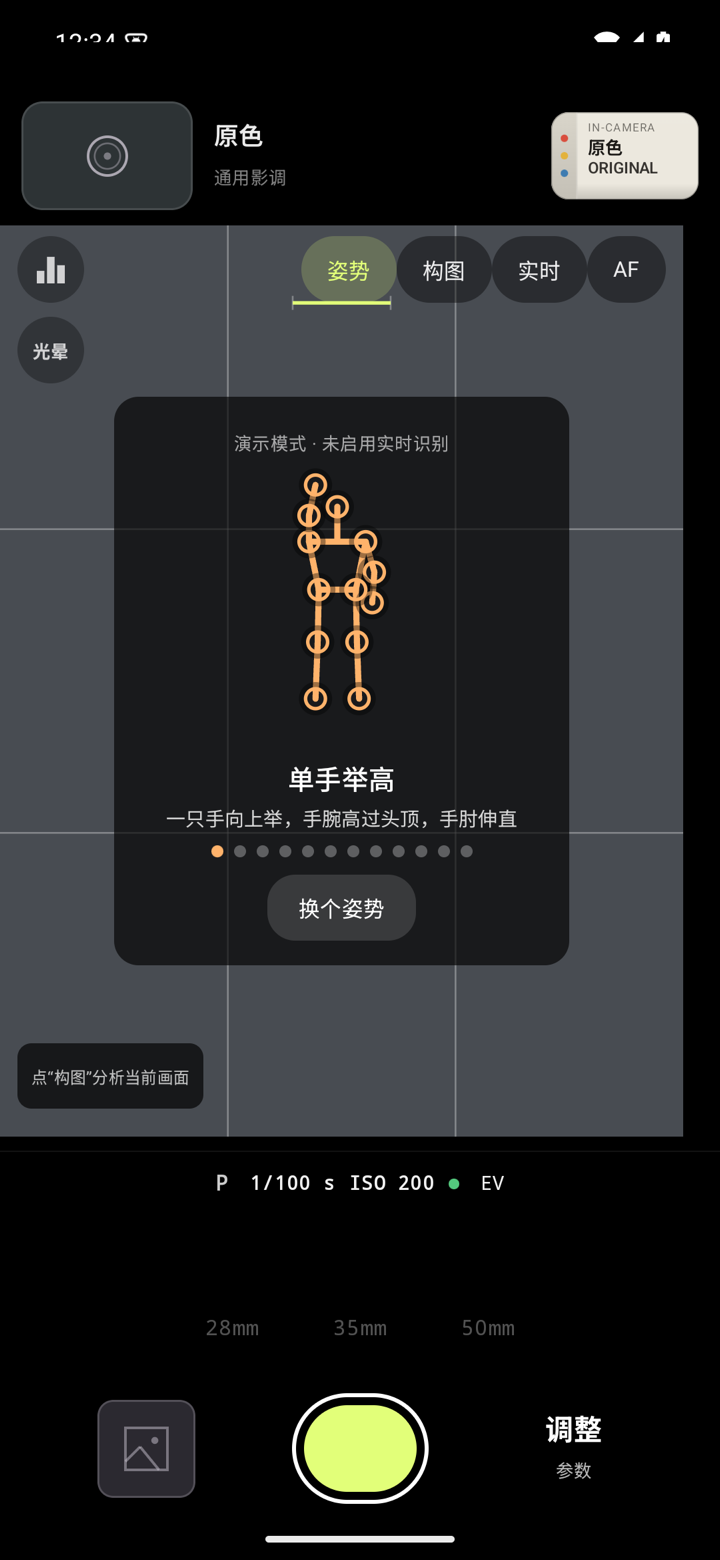
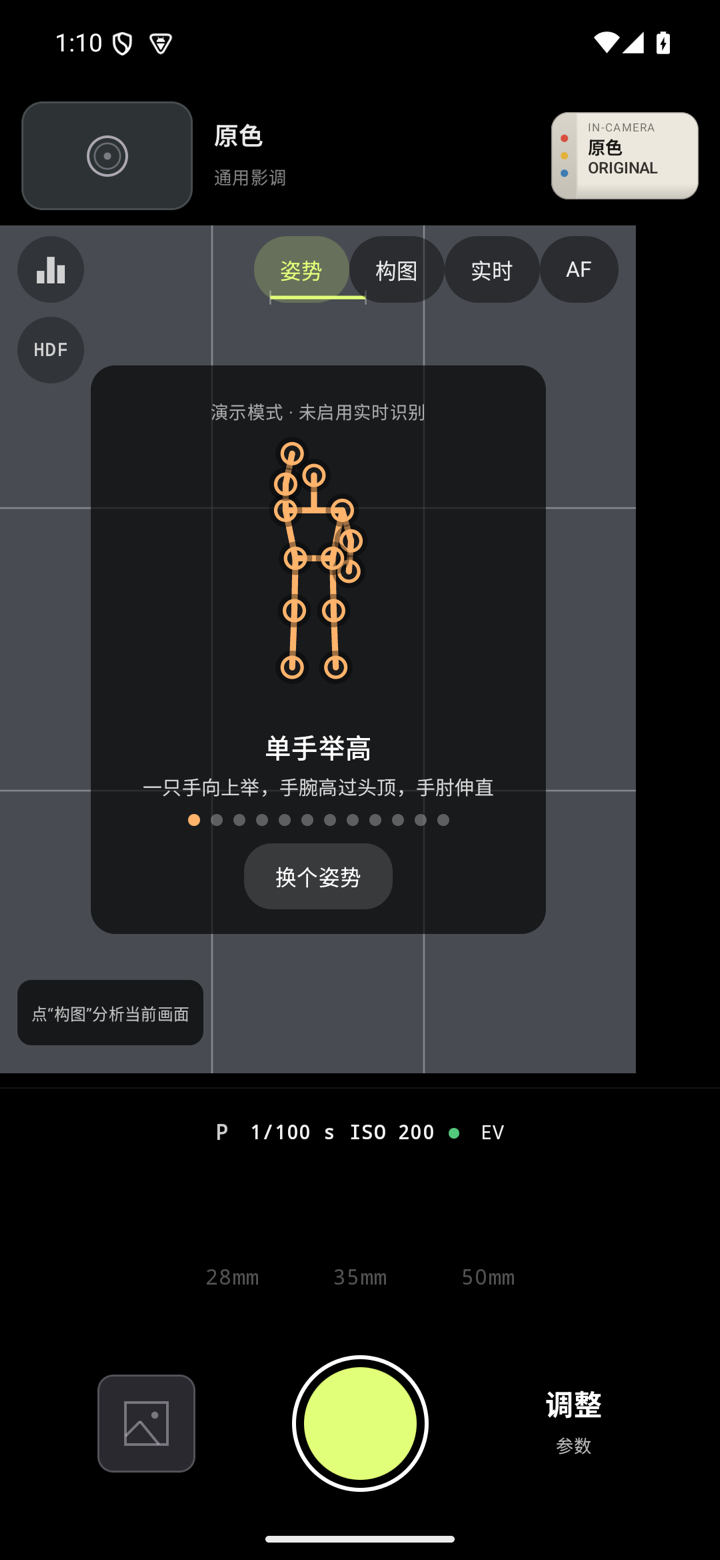
修复 T116 取景页回归：HDF 命名回正、肩屏与建议卡重叠、单次构图建议自消失
- HDF：T116 误把理光 HDF 高光扩散层改名为「光晕」，全链路改回 HDF
  （角钮、覆盖药丸、控制侧栏、扩散专区、曝光与测光文案、README）；
  代码标识符 hdrEnabled/hdrStrength 保留旧名以兼容老设置档
- 布局：clusterMinHeight 218→254dp，计入 T116 新增的固定 36dp 覆盖药丸
  槽；控制簇 Column fillMaxHeight，修掉 weight spacer 量到 0 导致簇顶对齐
  divider、测光肩屏贴上取景器下沿；曝光建议卡改为所有布局都在 3:4 框内
  HDF 角钮下方渲染，不再与肩屏挤同一黑带
- 构图保活：onSceneChanged 增加 hard 语义，相机重绑/后台暂停/旋转变焦失效
  为 hard 必清；普通内容观察为 soft，单次请求的建议不再因手持微动、AE 波动
  或画面动体在几秒后被清掉（30s TTL 正常过期），实时模式行为不变
- 新增 CompositionFrameSource 硬失效生命周期单测
- 重拍四张 README 产品图：HDF 角钮、修复后三卡分离布局、真实达标/引导/
  演示三态，截图说明同步更新

diff --git a/app/src/main/java/dev/streetsnap/app/CameraScreen.kt b/app/src/main/java/dev/streetsnap/app/CameraScreen.kt
@@ -286,13 +286,16 @@ fun CameraScreen(activity: MainActivity, model: CameraViewModel = viewModel()) {
                         // Tall enough for the body card to read as a camera plate rather than
                         // a flattened strip (T22: 48dp crowded the 74x40 artwork).
                         val nameplateHeight = if (hideNameplate) 0.dp else 80.dp
-                        // Worst case the cluster can show: divider + paddings + one override
-                        // chip row + focal row + fixed focal/shutter gap + 92dp shutter row.
-                        // Reserve it up front; on short screens the 3:4 picture shrinks a
-                        // touch instead of clipping.
+                        // Fixed content the cluster can show: divider + paddings + the
+                        // constant 36dp override-chip slot + shoulder strip + focal row +
+                        // fixed focal/shutter gap + 92dp shutter row = 254dp. The chip slot
+                        // is always reserved (T116) so it must be counted here; when the
+                        // reservation was still 218dp the weighted slack spacer measured
+                        // zero and the whole cluster top-aligned (T118). On short screens
+                        // the 3:4 picture shrinks a touch instead of clipping.
                         // The bottom band owns the navigation-bar inset; reserve it here so
                         // the 3:4 picture sizing matches the old safe-area layout.
-                        val clusterMinHeight = 218.dp + navigationBarBottom
+                        val clusterMinHeight = 254.dp + navigationBarBottom
                         val framedWidth = minOf(maxWidth,
                             (maxHeight - statusBarTop - nameplateHeight - clusterMinHeight) * 3f / 4f)
                         Column(Modifier.fillMaxSize().background(Color.Black)) {
@@ -797,10 +800,11 @@ private fun Viewfinder(
             // column hosts only the optional small histogram window.
             HdrToggleButton(settings.hdrEnabled, model::toggleHdr,
                 Modifier.align(Alignment.TopStart).padding(start = 10.dp, top = systemBarTop + 52.dp))
-            // Clipped-highlight/shadow hint. In framed portrait it lives in the black control
-            // band just above the shoulder strip (see ViewfinderOverlayBar) so it never covers
-            // the viewfinder; only the floating landscape path keeps the in-frame anchor.
-            if (!framed) exposureAdviceCard?.let { card ->
+            // Clipped-highlight/shadow hint, in-frame under the HDF corner button on every
+            // layout. It used to share the black control band with the shoulder strip in
+            // framed mode, but the band has no slack once the fixed override-chip slot is
+            // reserved, so the card collided with the meter readout (T118).
+            exposureAdviceCard?.let { card ->
                 ExposureAdviceCardView(card, model::dismissExposureAdvice,
                     Modifier.align(Alignment.TopStart).padding(start = 10.dp, top = systemBarTop + 100.dp))
             }
@@ -1177,7 +1181,7 @@ private fun LookAdviceAction(
 }
 
 /**
- * Exposure hint card under the 光晕 button. Suggest-only: no button changes exposure,
+ * Exposure hint card under the HDF button. Suggest-only: no button changes exposure,
  * the × dismisses for the rest of the session (T31).
  */
 @Composable
@@ -1195,7 +1199,7 @@ private fun ExposureAdviceCardView(card: ExposureAdviceCard, onDismiss: () -> Un
     }
 }
 
-/** Always-on 光晕 (bloom / Ricoh-style highlight diffusion) toggle under the OSD corner button; quiet when off, primary-tinted while on. */
+/** Always-on HDF toggle (Ricoh-style highlight diffusion) under the OSD corner button; quiet when off, primary-tinted while on. */
 @Composable
 private fun HdrToggleButton(on: Boolean, onToggle: () -> Unit, modifier: Modifier = Modifier) {
     val tint = if (on) MaterialTheme.colorScheme.primary else Color.White.copy(alpha = .78f)
@@ -1203,12 +1207,12 @@ private fun HdrToggleButton(on: Boolean, onToggle: () -> Unit, modifier: Modifie
         .background(if (on) MaterialTheme.colorScheme.primary.copy(alpha = .20f) else Color.Black.copy(alpha = .32f))
         .clickable(role = Role.Button, onClick = onToggle)
         .semantics {
-            contentDescription = "光晕开关（高光柔化与外圈辉光）"
+            contentDescription = "HDF 高光扩散开关（理光风格高光柔化与光晕）"
             stateDescription = if (on) "已开启" else "已关闭"
             this.selected = on
         },
         contentAlignment = Alignment.Center) {
-        Text("光晕", color = tint, fontSize = 10.sp, fontFamily = FontFamily.Monospace,
+        Text("HDF", color = tint, fontSize = 10.sp, fontFamily = FontFamily.Monospace,
             fontWeight = FontWeight.Bold, maxLines = 1)
     }
 }
@@ -1347,10 +1351,6 @@ private fun ViewfinderOverlayBar(
     val exposureMode = state.settings.exposureMode
     val ev = state.settings.exposureCompensationIndex * (state.capabilities?.exposureCompensationStepEv ?: 0.0)
     val wbName = state.settings.whiteBalance.takeIf { it != WhiteBalanceMode.AUTO }?.displayName
-    // T74: in framed portrait the exposure hint shares the black band with the shoulder strip
-    // (second collector of the same StateFlow); the landscape floating path renders it in-frame.
-    val exposureCard by model.exposureAdviceCard.collectAsStateWithLifecycle()
-
     // Only *manual overrides that can ruin a shot* get a persistent chip (Halide Mark III
     // pattern): non-auto WB, diffusion, MF, S/M exposure, EV. Tap jumps to the section,
     // long-press resets just that override. The creative look/film choice is WYSIWYG, so
@@ -1363,7 +1363,7 @@ private fun ViewfinderOverlayBar(
             })
         }
         if (settings.hdfEnabled) add(ActiveOverride("柔光", AdjustmentTab.LOOK, "关闭柔光") { model.toggleHdf() })
-        if (settings.hdrEnabled) add(ActiveOverride("光晕", AdjustmentTab.LOOK, "关闭光晕") { model.toggleHdr() })
+        if (settings.hdrEnabled) add(ActiveOverride("HDF", AdjustmentTab.LOOK, "关闭 HDF") { model.toggleHdr() })
         if (state.settings.focusDistanceDiopters != null)
             add(ActiveOverride("MF", AdjustmentTab.SHOOTING, "恢复自动对焦") { model.autoFocus() })
         if (exposureMode != ExposureMode.PROGRAM) add(ActiveOverride(
@@ -1377,17 +1377,17 @@ private fun ViewfinderOverlayBar(
         else Modifier.background(Brush.verticalGradient(listOf(Color.Transparent, Color.Black.copy(alpha = .58f))))
     // T116: the focal row and shutter are anchored to the bottom of the band. The cluster
     // used to vertically centre its whole content between two weighted spacers, so the
-    // moment an override chip appeared (柔光/光晕/non-auto WB/MF/S/M/EV) the shutter jumped
-    // down ~22dp — the reported "whole screen shifts down". Override chips and the
-    // transient exposure card now float over the black band instead of taking part in the
-    // Column, so nothing under the user's thumb ever reflows.
+    // moment an override chip appeared (柔光/HDF/non-auto WB/MF/S/M/EV) the shutter jumped
+    // down ~22dp — the reported "whole screen shifts down". Override chips keep a
+    // constant-height slot (its height is reserved in clusterMinHeight) and the transient
+    // exposure card floats inside the 3:4 viewfinder, so nothing under the user's thumb
+    // ever reflows. The inner Column MUST fill the band: without that the weighted spacer
+    // measures zero and the whole cluster top-aligns against the divider (T118 regression:
+    // shoulder strip touched the frame edge and crowded the cards).
     Box(modifier.then(chrome)
         .padding(top = if (framed) 8.dp else 46.dp, bottom = if (framed) 8.dp else 10.dp)) {
-        if (framed) exposureCard?.let { card ->
-            ExposureAdviceCardView(card, model::dismissExposureAdvice,
-                Modifier.align(Alignment.TopCenter).padding(horizontal = 12.dp))
-        }
-        Column(Modifier.fillMaxWidth(), horizontalAlignment = Alignment.CenterHorizontally) {
+        Column(Modifier.fillMaxWidth().then(if (framed) Modifier.fillMaxHeight() else Modifier),
+            horizontalAlignment = Alignment.CenterHorizontally) {
             // Hairline that separates the 3:4 screen from the camera-back control cluster.
             if (framed) HorizontalDivider(thickness = .8.dp, color = Color.White.copy(alpha = .07f))
             // All slack collects above the controls; the shutter group is bottom-anchored.
@@ -1737,9 +1737,9 @@ private fun ShootingControls(
                     color = if (adjustmentTab == AdjustmentTab.WHITE_BALANCE) MaterialTheme.colorScheme.primary
                     else MaterialTheme.colorScheme.onSurfaceVariant)
             }
-            // 柔光 = global soft diffusion (Black Pro-Mist style); 光晕 = highlight bloom.
-            // The two optical layers used to share one "HDF" label despite driving
-            // different settings — they now read as distinct, deliberately ordered switches.
+            // Two independent optical diffusion layers with deliberately distinct names:
+            // 柔光 = global soft diffusion (Black Pro-Mist style, hdfEnabled);
+            // HDF = Ricoh-style highlight diffusion with outer halo (hdrEnabled).
             Box(Modifier.width(56.dp).height(48.dp).clip(RoundedCornerShape(10.dp))
                 .background(if (settings.hdfEnabled) MaterialTheme.colorScheme.primary.copy(alpha = .12f) else Color.Transparent)
                 .toggleable(value = settings.hdfEnabled, enabled = loaded, role = Role.Switch) { model.toggleHdf() }
@@ -1754,10 +1754,10 @@ private fun ShootingControls(
                 .background(if (settings.hdrEnabled) MaterialTheme.colorScheme.primary.copy(alpha = .12f) else Color.Transparent)
                 .toggleable(value = settings.hdrEnabled, enabled = loaded, role = Role.Switch) { model.toggleHdr() }
                 .semantics {
-                    contentDescription = "光晕开关（高光柔化与外圈辉光）"
+                    contentDescription = "HDF 高光扩散开关（理光风格高光柔化与光晕）"
                     stateDescription = if (settings.hdrEnabled) "开启" else "关闭"
                 }, contentAlignment = Alignment.Center) {
-                Text("光晕", fontWeight = FontWeight.Bold, fontSize = 12.sp,
+                Text("HDF", fontWeight = FontWeight.Bold, fontSize = 12.sp,
                     color = if (settings.hdrEnabled) MaterialTheme.colorScheme.primary else MaterialTheme.colorScheme.onSurfaceVariant)
             }
         }
@@ -1990,9 +1990,11 @@ private fun LookAdjustments(settings: AppSettings, importing: Boolean, model: Ca
 
 /**
  * The two software-simulated optical diffusion layers, both global across looks/films:
- * 柔光 (hdf) softens the whole frame like a Black Pro-Mist; 光晕 (hdr) blooms only the
- * near-clipping highlights with an outer halo. They used to share the "HDF" label in
- * four scattered places and the halo strength had no control at all (T116).
+ * Two independent software-simulated optical diffusion layers, both global across
+ * looks/films: 柔光 (hdfEnabled) softens the whole frame like a Black Pro-Mist; HDF
+ * (hdrEnabled, Ricoh Highlight Diffusion Filter style) blooms only the near-clipping
+ * highlights with an outer halo. Both carry strength sliders (T116); the halo layer keeps
+ * its original HDF name — the T116 rename to 光晕 was reverted in T118.
  */
 @Composable
 private fun DiffusionAdjustments(settings: AppSettings, model: CameraViewModel) {
@@ -2003,12 +2005,12 @@ private fun DiffusionAdjustments(settings: AppSettings, model: CameraViewModel) 
         sliderDescription = "柔光强度",
         onToggle = model::toggleHdf, onStrength = model::setHdfStrength)
     DiffusionStrengthRow(
-        title = "光晕", hint = "高光柔化 · 只在接近过曝的高光上扩散并形成外圈辉光",
+        title = "HDF", hint = "理光高光扩散 · 只在接近过曝的高光上柔化并形成外圈辉光",
         enabled = settings.hdrEnabled, strength = settings.hdrStrength,
-        toggleDescription = "光晕开关（高光柔化与外圈辉光）",
-        sliderDescription = "光晕强度",
+        toggleDescription = "HDF 高光扩散开关（理光风格高光柔化与光晕）",
+        sliderDescription = "HDF 强度",
         onToggle = model::toggleHdr, onStrength = model::setHdrStrength)
-    Text("柔光与光晕对所有影调 / 胶片生效，强度各自独立记忆；拖动强度会自动开启。",
+    Text("柔光与 HDF 对所有影调 / 胶片生效，强度各自独立记忆；拖动强度会自动开启。",
         Modifier.padding(top = 2.dp, bottom = 10.dp), style = MaterialTheme.typography.labelSmall,
         color = MaterialTheme.colorScheme.onSurfaceVariant)
 }
@@ -2281,7 +2283,7 @@ private fun ShootingAdjustments(state: CameraState, settings: AppSettings, model
     Text("根据取景画面的光线与色彩，偶尔推荐合适的胶片或影调；只建议，不会自动更改。点取景器卡片可试用，也能一键还原。",
         style = MaterialTheme.typography.labelSmall, color = MaterialTheme.colorScheme.onSurfaceVariant)
     ToggleRow("曝光提示", settings.exposureAdviceEnabled) { model.setExposureAdviceEnabled(it) }
-    Text("高光大面积过亮或暗部太黑时给出 EV 调整方向，明暗反差都大时提示开启光晕；只建议，不会自动改曝光。",
+    Text("高光大面积过亮或暗部太黑时给出 EV 调整方向，明暗反差都大时提示开启 HDF；只建议，不会自动改曝光。",
         style = MaterialTheme.typography.labelSmall, color = MaterialTheme.colorScheme.onSurfaceVariant)
     TextButton(onClick = openMascotPicker, modifier = Modifier.fillMaxWidth().heightIn(min = 48.dp)) {
         Text("相机设置", fontSize = 12.sp)

diff --git a/app/src/main/java/dev/streetsnap/app/CompositionAssistant.kt b/app/src/main/java/dev/streetsnap/app/CompositionAssistant.kt
@@ -691,14 +691,19 @@ internal class CompositionAssistant(context: Context, private val scope: Corouti
                             shouldCaptureFrame = {
                                 isCurrentSession() && (manualRequestPending || config.realtime || config.lookAdvice)
                             },
-                            onSceneChanged = {
+                            onSceneChanged = { hard ->
                                 scope.launch(Dispatchers.Main.immediate) {
                                     // T76: the AF/AE hunt right after a focus tap is not a real
                                     // scene change — keep the rectangle, arrow and look card.
-                                    if (isCurrentSession() && !focusGate.isDisturbing()) {
-                                        requestGracefulClear()
-                                        sceneChangeListener?.invoke()
-                                    }
+                                    if (!isCurrentSession() || focusGate.isDisturbing()) return@launch
+                                    // Hard invalidation (camera rebind/rotation/model switch) always
+                                    // invalidates shown advice. A mere content change only clears a
+                                    // LIVE guide: realtime repaints on the next frame within the grace
+                                    // window, while a one-shot request must survive ordinary motion
+                                    // (handheld shake, AE, a moving subject) — otherwise the requested
+                                    // rectangle vanished a few seconds after tapping 构图 (T118).
+                                    if (hard || config.realtime) requestGracefulClear()
+                                    sceneChangeListener?.invoke()
                                 }
                             }, onError = { error ->
                                 scope.launch(Dispatchers.Main.immediate) {
@@ -715,7 +720,11 @@ internal class CompositionAssistant(context: Context, private val scope: Corouti
                                 val frameMode = withContext(Dispatchers.Main.immediate) {
                                     if (!isCurrentSession() || !frame.isCurrent ||
                                         !resultGate.isFreshForInference(ticket, SystemClock.elapsedRealtime())) return@withContext null
-                                    if (visibleScene?.invoke() == false && !focusGate.isDisturbing())
+                                    // Age-out applies to the live guide only: a realtime stream
+                                    // repaints within the grace window, whereas a one-shot request
+                                    // must outlast look-only frames arriving after it (T118).
+                                    if (config.realtime && visibleScene?.invoke() == false &&
+                                        !focusGate.isDisturbing())
                                         requestGracefulClear()
                                     val requested = manualRequestPending
                                     if (!requested && !config.realtime && !config.lookAdvice) return@withContext null

diff --git a/camera/src/main/java/dev/streetsnap/camera/CompositionFrameSource.kt b/camera/src/main/java/dev/streetsnap/camera/CompositionFrameSource.kt
@@ -37,7 +37,13 @@ class CompositionFrameSource(
     private val maximumEdge: Int = 384,
     sceneIntervalMs: Long = 500L,
     onError: (Throwable) -> Unit = {},
-    private val onSceneChanged: () -> Unit = {},
+    /**
+     * Scene observations diverged, or the source was invalidated. [hard] distinguishes a
+     * rebind/rotation/invalidation (true: the old frame is dead, advice must not survive)
+     * from an ordinary content change observed by the scene watcher (false: the picture
+     * simply changed — a live guide clears and repaints, a one-shot request may persist).
+     */
+    private val onSceneChanged: (hard: Boolean) -> Unit = {},
     /** Read-only, thread-safe demand check on the camera executor, before copying a full RGB frame. */
     private val shouldCaptureFrame: () -> Boolean = { true },
     onFrame: suspend (CompositionFrame) -> Unit,
@@ -86,7 +92,7 @@ class CompositionFrameSource(
             active = false; generation++; frameEpoch++; sampling.reset(); sceneSampling.reset(); sceneTracker.reset()
         }
         gate.dropPending()
-        runCatching(onSceneChanged)
+        runCatching { onSceneChanged(true) }
     }
 
     /** Called after detachment. A live source can be rebound after a rotation or preview resize. */
@@ -112,7 +118,7 @@ class CompositionFrameSource(
             previous
         }
         gate.dropPending()
-        if (wasActive) runCatching(onSceneChanged)
+        if (wasActive) runCatching { onSceneChanged(true) }
     }
 
     internal fun resume() = synchronized(lock) {
@@ -137,7 +143,7 @@ class CompositionFrameSource(
         synchronized(lock) { frameEpoch++; sampling.reset(); sceneSampling.reset(); sceneTracker.reset() }
         gate.dropPending()
         // Rotation/zoom invalidates a displayed rectangle as well as in-flight work.
-        runCatching(onSceneChanged)
+        runCatching { onSceneChanged(true) }
     }
 
     internal fun analyze(image: ImageProxy, session: Long) {
@@ -160,7 +166,7 @@ class CompositionFrameSource(
                 val changed = sceneTracker.observe(signature, now)
                 changed to if (reserved) sceneTracker.capture() else null
             }
-            if (sceneChanged) runCatching(onSceneChanged)
+            if (sceneChanged) runCatching { onSceneChanged(false) }
             if (!reserved) return
             val frame = copyFrame(image, now / 1_000_000L,
                 current = {

diff --git a/camera/src/test/java/dev/streetsnap/camera/CompositionFrameSourceLifecycleTest.kt b/camera/src/test/java/dev/streetsnap/camera/CompositionFrameSourceLifecycleTest.kt
@@ -43,6 +43,26 @@ class CompositionFrameSourceLifecycleTest {
     }
 
     @Test
+    fun invalidationAndRebindReportHardSceneChanges() {
+        val hardFlags = mutableListOf<Boolean>()
+        val source = CompositionFrameSource(onSceneChanged = { hard -> hardFlags.add(hard) }, onFrame = {})
+        try {
+            source.activate()
+            source.invalidateFrames()
+            assertTrue(hardFlags.isNotEmpty())
+            assertTrue("frame invalidation is a hard change", hardFlags.all { it })
+
+            hardFlags.clear()
+            source.deactivate()
+            assertTrue(hardFlags.isNotEmpty())
+            assertTrue("camera rebind is a hard change", hardFlags.all { it })
+        } finally {
+            source.close()
+            source.shutdownExecutor()
+        }
+    }
+
+    @Test
     fun disposalKeepsTheExecutorAliveUntilCameraXDetachesItsAnalyzer() {
         val source = CompositionFrameSource(onFrame = {})
         try {

diff --git a/app/src/main/java/dev/streetsnap/app/CameraViewModel.kt b/app/src/main/java/dev/streetsnap/app/CameraViewModel.kt
@@ -114,7 +114,7 @@ class CameraViewModel(application: Application) : AndroidViewModel(application) 
         val nextEv = (capture.exposureCompensationIndex + advice.issue.evDirection) * step
         _exposureAdviceCard.value = ExposureAdviceCard(
             when (advice.issue) {
-                ExposureIssue.WIDE_DYNAMIC_RANGE -> "明暗光比大，可开「光晕」柔化高光或避开强光"
+                ExposureIssue.WIDE_DYNAMIC_RANGE -> "明暗光比大，可开「HDF」柔化高光或避开强光"
                 ExposureIssue.HIGHLIGHTS_CLIPPED -> "高光过亮，建议 EV %+.1f".format(nextEv)
                 ExposureIssue.SHADOWS_CLIPPED -> "暗部太黑，建议 EV %+.1f".format(nextEv)
             },

diff --git a/docs/images/README.md b/docs/images/README.md
@@ -1,6 +1,15 @@
 # 界面截图
 
-> **2026-10-26 更新（T116 批次）：** 配合取景页菜单梳理（「柔光 / 光晕」定名、扩散专区）与快门位移修复，五张主图全部重拍：`viewfinder.png`、`pose-live-guide.png`、`pose-ready.png`、`pose-demo.png`、`compose-panel.png`。本批次人物画面统一使用 COCO 183391（CC BY-SA 2.0）单一来源，演示模式图改用纯灰场景、不再注入任何照片。2026-10-25 批次的方法记录与署名保留在后文。
+> **2026-10-27 更新（T118 批次）：** 配合取景页回归修复（HDF 命名回正、测光肩屏与建议卡重叠、单次构图建议自消失），重拍四张主图：`viewfinder.png`、`pose-live-guide.png`、`pose-ready.png`、`pose-demo.png`。人物画面仍为 COCO 183391（CC BY-SA 2.0）单一来源、纯灰演示图不注入照片。T116 批次的 `compose-panel.png` 与方法记录保留在后文。
+>
+> **2026-10-26（T116 批次）：** 配合取景页菜单梳理（「柔光 / HDF」区分、扩散专区）与快门位移修复，五张主图全部重拍：`viewfinder.png`、`pose-live-guide.png`、`pose-ready.png`、`pose-demo.png`、`compose-panel.png`（前四者 T118 已再次重拍）。
+
+## 截图环境（2026-10-27，T118 批次）
+
+- JDK / Android SDK / AVD 同 T116（Temurin 17.0.21+9，JAVA_HOME 必须指到 bundle 内的 `Contents/Home`；emulator 无头 `-no-window -gpu host -grpc 8554`）。
+- **APK**：`./gradlew :app:assembleDebug` 本机构建安装，包名 `dev.streetsnap.app`，代码基线为分支 **`fix/t118-hdf-layout-regressions`**（HDF 命名回正 + 取景页布局与构图保活修复，随本 PR 提交）。
+- **场景切换改回冷启**：T116 记录的 gRPC 热切（`vsctl2.py`）在本机当前 emulator 版本上异常——返回约 6 KB 浮点数组样式二进制而非 `0801` protobuf 响应、场景不切换。本批一律改 `environment.ini` 后 `adb emu kill` 冷启（mesh3d↔imagefile 切换本就要求冷启）。
+- **定帧**：人物录屏 `rt118.mp4`（screenrecord 12 Mbps、45 s）按 0.2 s 抽帧 + 像素扫描定位绿窗（f0039–f0049），逐张目检定稿；演示图为 `screencap` 直截。
 
 ## 截图环境（2026-10-26，T116 批次）
 
@@ -14,7 +23,7 @@
 
 ## 出图方法
 
-- **虚拟场景 imagefile 模式**：AVD `environment.ini` 写 `version = 1` + `scene.mode = imagefile:<主机绝对路径>`。运行中经 gRPC 热切：服务 `android.emulation.control.incubating.VirtualSceneService/reloadEnvironment`（明文 gRPC，本机自写 HTTP/2 客户端 `/tmp/lwl-emulator-ctl/vsctl2.py`，不进仓），payload 为 protobuf 字符串帧（field 1 直接放 ini 文本，无空格），成功响应 `0801`；**同路径文件替换内容不生效，每次热切必须换新文件名**。
+- **虚拟场景 imagefile 模式**：AVD `environment.ini` 写 `version = 1` + `scene.mode = imagefile:<主机绝对路径>`。运行中经 gRPC 热切：服务 `android.emulation.control.incubating.VirtualSceneService/reloadEnvironment`（明文 gRPC，本机自写 HTTP/2 客户端 `/tmp/lwl-emulator-ctl/vsctl2.py`，不进仓），payload 为 protobuf 字符串帧（field 1 直接放 ini 文本，无空格），成功响应 `0801`；**同路径文件替换内容不生效，每次热切必须换新文件名**。（2026-10-27 T118 时该通道在本机当前 emulator 上失效，返回非 protobuf 二进制，已改回改 ini + 冷启。）
 - **冷启隐私指示器规避**：Android 15 相机会话建立后，systemui 的 `ScreenDecorOverlay` 会在右上角弹约 15 秒的绿色隐私胶囊（已用 `dumpsys window windows` 确认归属，非 App 控件），冷启即拍会截入画面。本批流程：先热切到纯灰 imagefile → 冷启 App（灰场无人，姿势永不达标、不轮换）→ 等 19 秒确认胶囊消失 → 再热切人物图。
 - **姿势索引与绿帧**：冷启重置为第 1 个姿势「单手举高」；该测试照在热切后约 1.3–2.6 秒真实达标（PoseCoach：`SCORE_READY=0.75`、连续 4 帧确认），ready 绿窗约 2.1 秒，2200ms 后自动轮换到「双手举起」。用 `screenrecord --time-limit` 录屏后 AVFoundation 按 0.05 秒抽帧（`extractframes.swift`），自写像素扫描按绿（`#54C97E`）/ 琥珀计数定位帧号，再逐张目检定稿——不是手工摆造或后期改色。
 - **演示模式**：`adb run-as dev.streetsnap.app` 把 `files/pose-models/pose_landmarker_lite/model.task` 临时改名为 `.hold`，App 回落到演示模式；截后已改回并重新启动确认识别恢复。
@@ -23,10 +32,10 @@
 
 ## 本批图片
 
-- `viewfinder.png`（720×1560）：竖屏相机背式布局，**原色**影调、光晕角钮可见。两卡同屏：左侧画面分析建议卡（动作句 + 三分构图书签行 +「画面分析建议 · 画面分析 172 ms」时序）与底部居中绿色达标姿势卡「姿势到位 · 保持 / 很好，下一个姿势马上来」，上下分离互不遮挡；蓝色推荐取景框为该次点「构图」的真实规则分析结果。场景：imagefile COCO 183391（画布参数②，录屏 rec3 帧 f0080）。
-- `pose-live-guide.png`（720×1560）：实时引导态（自动轮换后的第 2 个姿势「双手举起」）。**白色虚线** ghost 骨架贴合真实人体，**琥珀色**目标骨架与关节圆环（未达标关节呼吸脉冲）；卡片含动作提示「左手再抬高一些，举过肩膀」、图例与进度条。场景：imagefile COCO 183391（画布参数①，录屏帧 f0150）。
-- `pose-ready.png`（720×1560）：**真实达标保持态**（同一录屏序列，绿帧窗口 f0054–f0094，定版 f0070）。骨架与关节环全部转绿（`#54C97E`），ghost 淡出，卡片为「姿势到位 · 保持 / 很好，下一个姿势马上来」，图例与进度条按设计隐藏。场景：imagefile COCO 183391（画布参数①）。
-- `pose-demo.png`（720×1560）：演示模式（临时移走姿态模型）。纯灰 imagefile 场景（不注入任何照片），卡内静态琥珀色小人示范「单手举高」，下方 12 个分页圆点（第 1 个高亮）与「换个姿势」按钮；无模型时仍可浏览全部 12 个姿势。
+- `viewfinder.png`（720×1560，T118 定版）：竖屏相机背式布局，**原色**影调、**HDF** 角钮可见（T118 已把 T116 误改的「光晕」回正为 HDF）。三卡同屏且全部落在 3:4 取景框内部、上下分离：曝光建议卡「暗部太黑，建议 EV+0.5」（HDF 角钮下方）、画面分析建议卡（三分构图动作句 +「画面分析建议 · 画面分析 9 ms」）、底部居中绿色达标姿势卡「姿势到位 · 保持」；测光肩屏「P 1/100 s ISO 200 · EV」在取景框外独立成行，与任何卡片不重叠（T118 修复点）。场景：imagefile COCO 183391（画布参数①，录屏 rt118 帧 f0047）。
+- `pose-live-guide.png`（720×1560，T118 定版）：实时引导态（自动轮换后的第 2 个姿势「双手举起」）。**白色虚线** ghost 骨架贴合真实人体，**琥珀色**目标骨架与关节圆环（未达标关节呼吸脉冲）；卡片含动作提示「左手再抬高一些，举过肩膀」、图例与进度条；画面分析建议卡同屏且不压肩屏。场景：imagefile COCO 183391（画布参数①，录屏 rt118 帧 f0070）。
+- `pose-ready.png`（720×1560，T118 定版）：**真实达标保持态**（同一录屏序列，绿帧窗口 f0039–f0049，定版 f0039）。骨架与关节环全部转绿（`#54C97E`），ghost 淡出，卡片为「姿势到位 · 保持 / 很好，下一个姿势马上来」，图例与进度条按设计隐藏。场景：imagefile COCO 183391（画布参数①）。
+- `pose-demo.png`（720×1560，T118 定版）：演示模式（临时移走姿态模型，截后已改回）。纯灰 imagefile 场景（不注入任何照片），卡内静态琥珀色小人示范「单手举高」，下方 12 个分页圆点（第 1 个高亮）与「换个姿势」按钮；左下角为真实常驻提示「点"构图"分析当前画面」（截图时实时构图已关）。无模型时仍可浏览全部 12 个姿势。
 - `compose-panel.png`（720×1560）：「调整 → 拍摄」面板。「姿势助手 · 实验性」开关开启，副文案「实时识别已就绪 · 白骨架贴合人体，琥珀色小人示范目标姿势」、「实时识别模型已安装 · 5.5 MB」、「删除本地模型」、「模型来自 Google MediaPipe（Apache-2.0），所有计算都在手机本地完成，画面不上传、不保存」；上方可见「AI 推理：安装模型后显示实测耗时」（d1 未安装的真实状态）。背景相机实时引导仍在运行（imagefile COCO 183391，画布参数②）。**2026-10-26 产品页精简后不再展示于根 README，文件保留作记录。**
 
 ## 第三方照片署名
@@ -50,7 +59,7 @@
 ## 证据边界
 
 - 全部截图来自 qemu 模拟器（无头、`-gpu host`），**不代表荣耀 Vs3 真机**的成像、骨架贴合度、帧率、温升或功耗；姿态识别在平面照片上运行，只验证识别与引导链路本身。
-- `pose-ready.png` 的转绿是该测试照片上 PoseCoach 的真实判定（录屏全量抽帧所得），不是真机命中率证据。
+- `pose-ready.png` 的转绿是该测试照片上 PoseCoach 的真实判定（录屏全量抽帧所得，T118 绿窗 f0039–f0049），不是真机命中率证据。
 - `compose-panel.png` 中 d1 未安装、姿态模型 5.5 MB 已安装均为截图时设备真实状态。
 - 模拟器 HAL 不报告数字变焦，焦段条呈灰态；真机行为可能不同。
 
